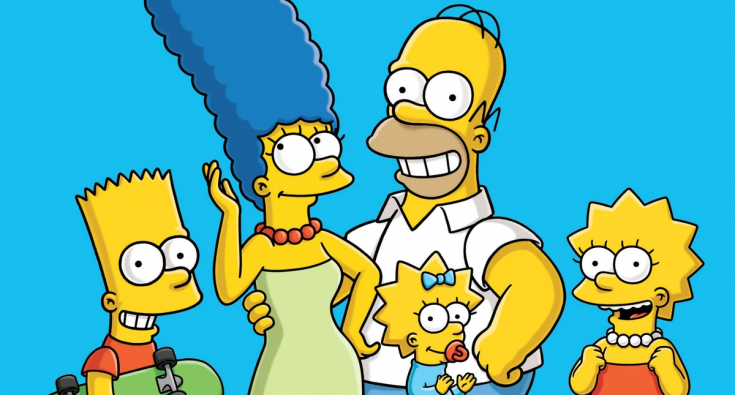
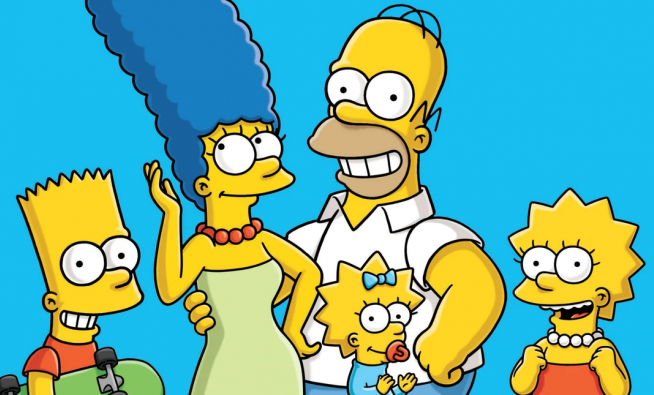
js

diff --git a/index.html b/index.html
@@ -2,40 +2,104 @@
 <html lang="en">
 <head>
     <meta charset="UTF-8">
-    <title>Title</title>
+    <title>Сериалы</title>
     <link rel="stylesheet" type="text/css" href="css/main.css">
     <link rel="stylesheet" type="text/css" href="css/bootstrap.css">
+
+    <script lang="javascript">
+
+        function toZayac() {
+            $("#navbarDropdown")[0].innerText = "Ну, погоди!";
+            return false;
+        }
+        function toSimpsons() {
+            $("#navbarDropdown")[0].innerText = "Симпсоны";
+            return false;
+        }
+        function toSmesh() {
+            $("#navbarDropdown")[0].innerText = "Смешарики";
+            return false;
+        }
+
+    </script>
 </head>
 <body>
-
-<div class="container sameimage">
-    <div id="carouselExampleIndicators" class="carousel slide" data-ride="carousel">
-        <ol class="carousel-indicators">
-            <li data-target="#carouselExampleIndicators" data-slide-to="0" class="active"></li>
-            <li data-target="#carouselExampleIndicators" data-slide-to="1"></li>
-            <li data-target="#carouselExampleIndicators" data-slide-to="2"></li>
-        </ol>
-        <div class="carousel-inner">
-            <div class="carousel-item active">
-                <img height="600px" src="images/simpsons-1.png" class="d-block w-100" alt="...">
-            </div>
-            <div class="carousel-item">
-                <img height="600px" src="images/simpsons-2.jpg" class="d-block w-100" alt="...">
-            </div>
-            <div class="carousel-item">
-                <img height="600px" src="images/simpsons-3.jpg" class="d-block w-100" alt="...">
-            </div>
-        </div>
-        <a class="carousel-control-prev" href="#carouselExampleIndicators" role="button" data-slide="prev">
-            <span class="carousel-control-prev-icon" aria-hidden="true"></span>
-            <span class="sr-only">Previous</span>
-        </a>
-        <a class="carousel-control-next" href="#carouselExampleIndicators" role="button" data-slide="next">
-            <span class="carousel-control-next-icon" aria-hidden="true"></span>
-            <span class="sr-only">Next</span>
-        </a>
+<nav class="navbar navbar-expand-lg navbar-dark bg-dark fixed-top">
+    <a class="navbar-brand" href="#">
+        <img src="images/Video-film.svg" width="30" height="30" class="d-inline-block align-top" alt="">
+        Сериалы
+    </a>
+    <button class="navbar-toggler" type="button" data-toggle="collapse" data-target="#navbarNav" aria-controls="navbarNav" aria-expanded="false"
+            aria-label="Toggle navigation">
+        <span class="navbar-toggler-icon"></span>
+    </button>
+    <div class="collapse navbar-collapse" id="navbarNav">
+        <ul class="navbar-nav">
+            <li class="nav-item dropdown">
+                <a class="nav-link dropdown-toggle" href="#" id="navbarDropdown" role="button" data-toggle="dropdown" aria-haspopup="true" aria-expanded="false">
+                    Симпсоны
+                </a>
+                <div class="dropdown-menu" aria-labelledby="navbarDropdown">
+                    <a class="dropdown-item" href="#" onclick="toSimpsons();">Симпсоны</a>
+                    <a class="dropdown-item" href="#" onclick="toZayac();">Ну, погоди!</a>
+                    <a class="dropdown-item" href="#" onclick="toSmesh();">Смешарики</a>
+                </div>
+            </li>
+        </ul>
     </div>
-</div>
+</nav>
+
+<header>
+    <section class="py-5">
+    <div class="container sameimage">
+        <div id="carouselExampleIndicators" class="carousel slide" data-ride="carousel">
+            <ol class="carousel-indicators">
+                <li data-target="#carouselExampleIndicators" data-slide-to="0" class="active"></li>
+                <li data-target="#carouselExampleIndicators" data-slide-to="1"></li>
+                <li data-target="#carouselExampleIndicators" data-slide-to="2"></li>
+            </ol>
+            <div class="carousel-inner">
+                <div class="carousel-item active">
+                    <img  src="images/simpsons-1.png" class="d-block w-100" alt="...">
+                </div>
+                <div class="carousel-item">
+                    <img  src="images/simpsons-2.jpg" class="d-block w-100" alt="...">
+                </div>
+                <div class="carousel-item">
+                    <img  src="images/simpsons-3.jpg" class="d-block w-100" alt="...">
+                </div>
+            </div>
+            <a class="carousel-control-prev" href="#carouselExampleIndicators" role="button" data-slide="prev">
+                <span class="carousel-control-prev-icon" aria-hidden="true"></span>
+                <span class="sr-only">Назад</span>
+            </a>
+            <a class="carousel-control-next" href="#carouselExampleIndicators" role="button" data-slide="next">
+                <span class="carousel-control-next-icon" aria-hidden="true"></span>
+                <span class="sr-only">Вперед</span>
+            </a>
+        </div>
+    </div>
+    </section>
+</header>
+<main>
+    <section class="py-5">
+        <div class="container">
+            <h1 class="font-weight-light">Симпсоны</h1>
+            <p class="lead">Идея создания сериала осенила Мэтта Грейнинга, когда он зашёл в офис Джеймса Брукса,
+                чтобы предложить серию короткометражных анимационных работ. В то время он был известен как автор
+                популярных комиксов «Жизнь в аду» и собирался предложить именно их, но в конце концов передумал,
+                чтобы не лишаться прав на комиксы. Ему было нужно что-то новое, и тогда он наспех набросал план
+                сериала о жизни американской семьи. </p>
+        </div>
+    </section>
+</main>
+<footer>
+    <section class="py-5">
+        <div class="container">
+            2019
+        </div>
+    </section>
+</footer>
 
 <script src="js/jquery-3.4.1.js"></script>
 <script src="js/bootstrap.js"></script>

diff --git a/css/main.css b/css/main.css
@@ -16,6 +16,10 @@
     width: 100%;
 }
 
+.carousel-inner > .carousel-item > img {
+    height:600px;
+}
+
 .header .navbar-nav .nav-link {
     color: #fff;
 }
